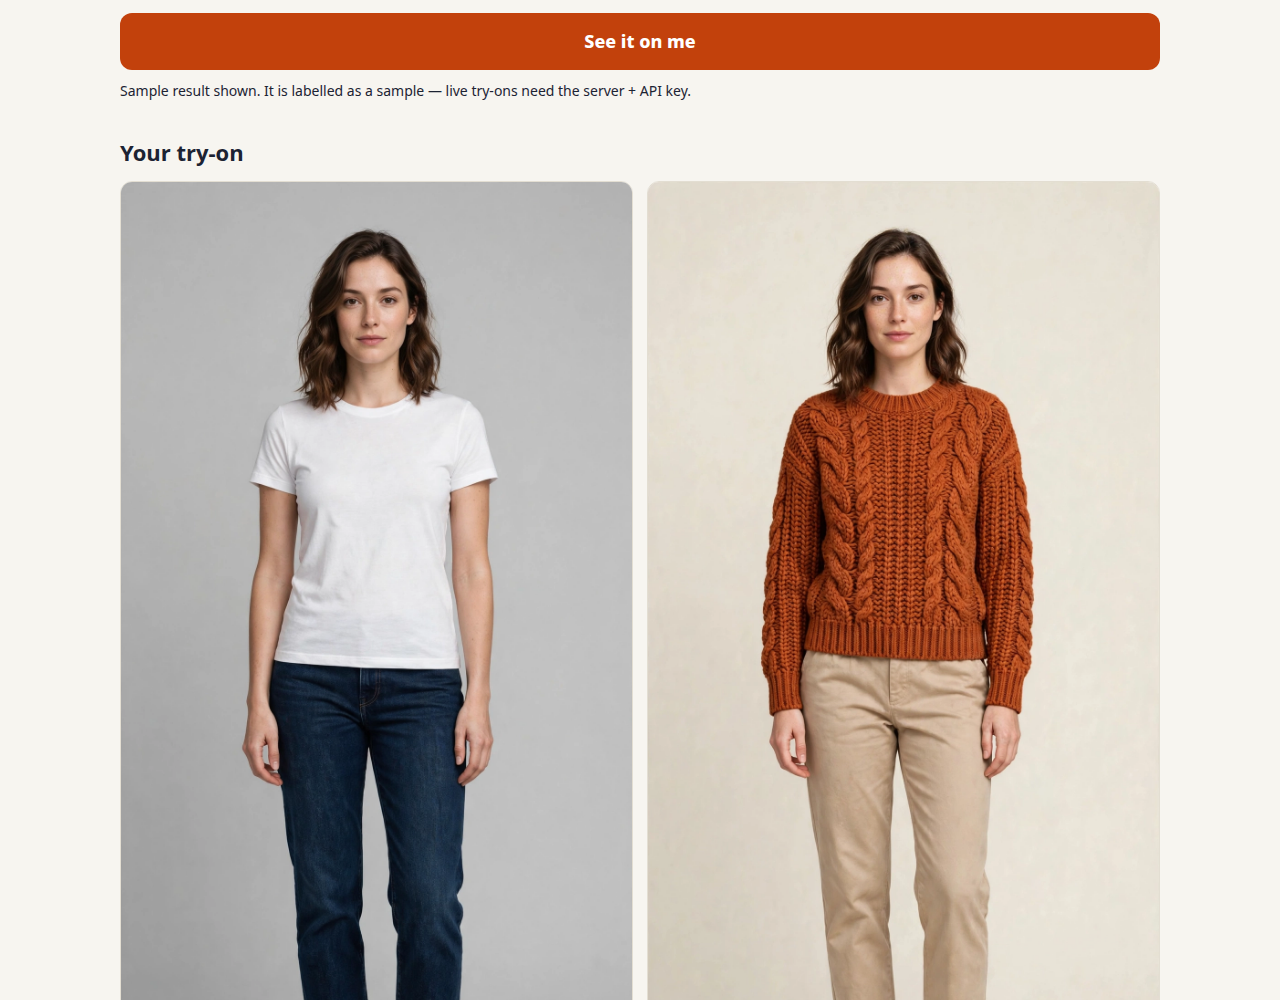
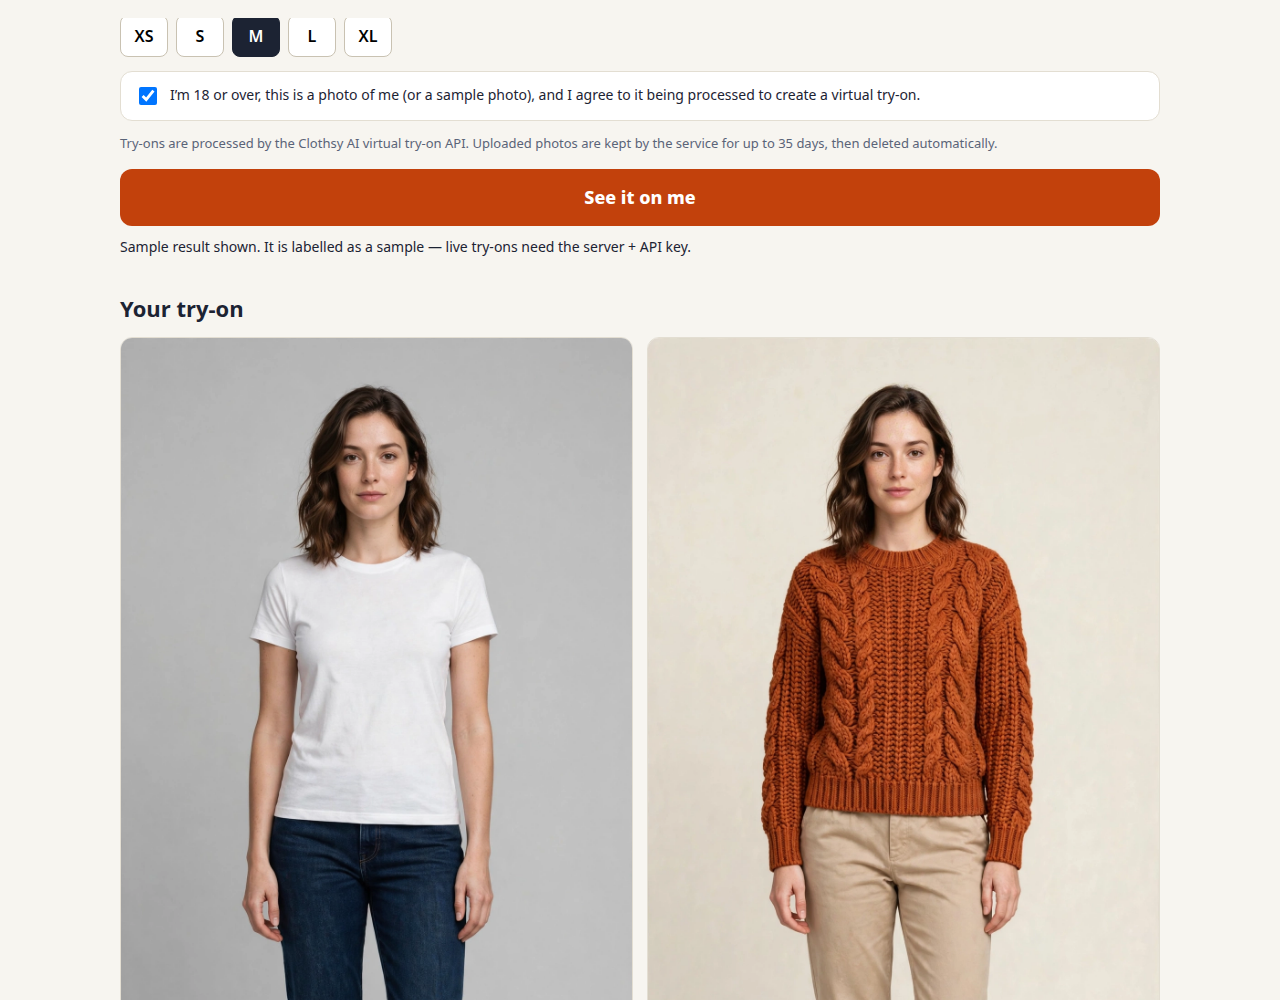
Review round 1 fixes: correct size recommendation, non-blocking status, lookbook dedupe

diff --git a/server/server.js b/server/server.js
@@ -98,32 +98,52 @@ function readBody(req) {
   });
 }
 
-let statusCache = { at: 0, body: null };
-async function handleStatus(res) {
-  const now = Date.now();
-  if (statusCache.body && now - statusCache.at < 60000) {
-    return sendJson(res, 200, statusCache.body);
-  }
-  if (!process.env.CLOTHSY_API_KEY) {
-    const body = { live: false, credits: null, message: "No API key configured on this server." };
-    statusCache = { at: now, body };
-    return sendJson(res, 200, body);
-  }
-  // A key is configured: the server IS live-capable. The credit balance is
-  // best-effort — a slow or failing balance check never reports the server
-  // as dead, because a timeout says nothing about the key's validity.
-  let credits = null;
-  let message = "Live try-on connected.";
+let statusCache = { at: 0, body: null, refreshing: false };
+
+// Refreshes the credit balance in the background. Never blocks a response
+// and never changes the live/dead answer: a key configured means live,
+// whatever the balance check does.
+async function refreshCredits() {
+  if (statusCache.refreshing) return;
+  statusCache.refreshing = true;
   try {
     const account = await clothsy.getAccount();
-    credits =
-      account.creditsRemaining ?? account.credits_remaining ?? account.credits ?? null;
-  } catch (err) {
-    message = "Live try-on connected. Credit balance could not be read just now.";
+    statusCache.body = {
+      live: true,
+      credits:
+        account.creditsRemaining ?? account.credits_remaining ?? account.credits ?? null,
+      message: "Live try-on connected.",
+    };
+    statusCache.at = Date.now();
+  } catch {
+    // Keep the previous body; the balance is best-effort only.
   }
-  const body = { live: true, credits, message };
-  statusCache = { at: now, body };
-  return sendJson(res, 200, body);
+  statusCache.refreshing = false;
+}
+
+function handleStatus(res) {
+  if (!process.env.CLOTHSY_API_KEY) {
+    return sendJson(res, 200, {
+      live: false,
+      credits: null,
+      message: "No API key configured on this server.",
+    });
+  }
+  const now = Date.now();
+  if (
+    statusCache.body &&
+    statusCache.body.live &&
+    now - statusCache.at < 60000 &&
+    statusCache.body.credits !== null
+  ) {
+    return sendJson(res, 200, statusCache.body);
+  }
+  const body =
+    statusCache.body && statusCache.body.live
+      ? statusCache.body
+      : { live: true, credits: null, message: "Live try-on connected." };
+  sendJson(res, 200, body);
+  refreshCredits();
 }
 
 async function handleCreateTryon(req, res) {

diff --git a/fit.js b/fit.js
@@ -10,6 +10,21 @@
 //   diff >= +3  -> "size-down"  (runs large: the garment is roomier than standard)
 //   diff <= -3  -> "size-up"    (runs small: the garment is tighter than standard)
 //   otherwise   -> "true-to-size"
+//
+// The recommendation is the size to TAKE: one size down from usual when the
+// garment runs large, one up when it runs small, usual size when true.
+// At the ends of the size run it clamps (there is no size below XS).
+const SIZE_RUN = ["XS", "S", "M", "L", "XL"];
+
+function oneSizeDown(size) {
+  const i = SIZE_RUN.indexOf(size);
+  return i > 0 ? SIZE_RUN[i - 1] : size;
+}
+
+function oneSizeUp(size) {
+  const i = SIZE_RUN.indexOf(size);
+  return i >= 0 && i < SIZE_RUN.length - 1 ? SIZE_RUN[i + 1] : size;
+}
 export function fitVerdict(garment, size, sizeChart) {
   const standard = sizeChart.standardChestCm[size];
   const chest = garment.chestCm[size];
@@ -17,12 +32,15 @@ export function fitVerdict(garment, size, sizeChart) {
   const diff = chest - standard;
   let verdict;
   let headline;
+  let recommendedSize = size;
   if (diff >= 3) {
     verdict = "size-down";
     headline = "Size down — runs large";
+    recommendedSize = oneSizeDown(size);
   } else if (diff <= -3) {
     verdict = "size-up";
     headline = "Size up — runs small";
+    recommendedSize = oneSizeUp(size);
   } else {
     verdict = "true-to-size";
     headline = "True to size";
@@ -31,9 +49,15 @@ export function fitVerdict(garment, size, sizeChart) {
     diff > 0 ? `${diff} cm roomier than standard` :
     diff < 0 ? `${Math.abs(diff)} cm tighter than standard` :
     "exactly on standard";
+  const recommendation =
+    recommendedSize === size
+      ? `Take your usual size ${size}.`
+      : `Take size ${recommendedSize} instead of your usual ${size}.`;
   return {
     verdict,
     headline,
+    recommendedSize,
+    recommendation,
     diffCm: diff,
     garmentChestCm: chest,
     standardChestCm: standard,

diff --git a/app.js b/app.js
@@ -182,7 +182,7 @@ function showResult({ beforeSrc, afterSrc, caption, meta, verdict }) {
   $("result-meta").textContent = meta;
   const card = $("verdict-card");
   card.className = "verdict " + verdict.verdict;
-  $("verdict-headline").textContent = `${verdict.headline} — take size ${state.size}`;
+  $("verdict-headline").textContent = `${verdict.headline} — ${verdict.recommendation}`;
   $("verdict-reason").textContent = verdict.reason;
   $("verdict-numbers").textContent =
     `Garment chest ${verdict.garmentChestCm} cm · standard for size ${state.size} ${verdict.standardChestCm} cm · difference ${verdict.diffCm >= 0 ? "+" : ""}${verdict.diffCm} cm. ` +
@@ -341,8 +341,15 @@ function saveCurrentToLookbook() {
   if (!r) return;
   const g = garment();
   const items = loadLookbook();
+  const key = `${state.shopperId}|${g.id}|${state.size}|${r.mode}`;
+  if (items.some((x) => x.key === key)) {
+    setStatus("Already in your lookbook.");
+    return;
+  }
   items.unshift({
     id: `${Date.now()}-${g.id}`,
+    key,
+    shopperId: state.shopperId,
     garmentId: g.id,
     garmentName: g.name,
     priceUsd: g.priceUsd,
@@ -383,6 +390,7 @@ async function init() {
       return;
     }
     const blob = await shrinkPhoto(file);
+    if (state.upload) URL.revokeObjectURL(state.upload.dataUrl);
     state.upload = {
       name: file.name,
       blob,

diff --git a/index.html b/index.html
@@ -81,7 +81,7 @@
 
   <section aria-labelledby="h-lookbook">
     <h2 id="h-lookbook">Your shoppable lookbook</h2>
-    <p class="hint">Everything you try on lands here, with its fit verdict and price — the shortlist you actually buy from. Saved only in this browser.</p>
+    <p class="hint">Everything you try on lands here, with its fit verdict and price — the shortlist you actually buy from. Saved only in this browser. Live try-on images are hosted by Clothsy AI for 24 hours; sample results stay.</p>
     <div class="lookbook-grid" id="lookbook-grid"></div>
     <p class="empty" id="lookbook-empty">Nothing tried on yet. Your first try-on will appear here.</p>
   </section>

diff --git a/tests/TEST_LOG_2026-11-15.md b/tests/TEST_LOG_2026-11-15.md
@@ -21,7 +21,7 @@ server/clothsy.js, scripts/live-tryon.cjs, scripts/test-fit.mjs.
   friendly "Live try-on is not configured…" message.
 
 ## 4. Server, dummy key — PARTIAL (upstream stall, see §6)
-- `POST /api/tryon` with `CLOTHSY_API_KEY=clothsy_live_INVALIDTESTKEY`:
+- `POST /api/tryon` with `CLOTHSY_API_KEY=clothsy_live_<invalid-test-key>`:
   5 attempts, every one hit the 15 s client timeout and returned the
   friendly 504-style message ("The try-on service took too long to
   answer."). No credit spent (auth never completed).
@@ -98,3 +98,25 @@ doing, acceptable for labelled demo samples.
   with real outputs before filing.
 - The deployed Pages URL rendering (pending build; re-check + screenshot).
 - The demo video (VO + music + boss approval outstanding — see filing packet).
+
+## 10. Round 1 fixes re-test (2026-11-15 ~23:00 IST, after review round 1)
+- `node scripts/test-fit.mjs`: 19/19 PASS (was 13/13; +6 recommendation checks).
+- E2E suite re-run with 4 new checks (recommendation text for all three
+  verdicts + no-duplicate save): 23/23 PASS, zero page/console errors.
+  Headlines now read "Size down — runs large — Take size S instead of your
+  usual M.", "Size up — runs small — Take size L instead of your usual M.",
+  "True to size — Take your usual size M."
+- Dummy-key `/api/status` after the non-blocking fix: 0.055 s,
+  `{"live":true,"credits":null,"message":"Live try-on connected."}`.
+- Screenshots 03/04 refreshed with the corrected headlines.
+- Service restart mid-test wiped /tmp (e2e script + logs); recreated from
+  the recorded content and re-run clean. Repo files in ~/workspace were
+  unaffected.
+
+## 11. Deployment verified (2026-11-15 ~22:25 IST)
+- Pages home: 200. Pages catalog.json: 200. Pages build status: "built".
+- Live page text fetched via the supported fetch route and verified: full
+  app copy renders (header, 3 steps, shoppers, garments, size/consent,
+  lookbook, about, footer links).
+- Test log + screenshots committed as 48a7228; Round 1 fixes committed
+  separately after this log's section 10 re-test.
